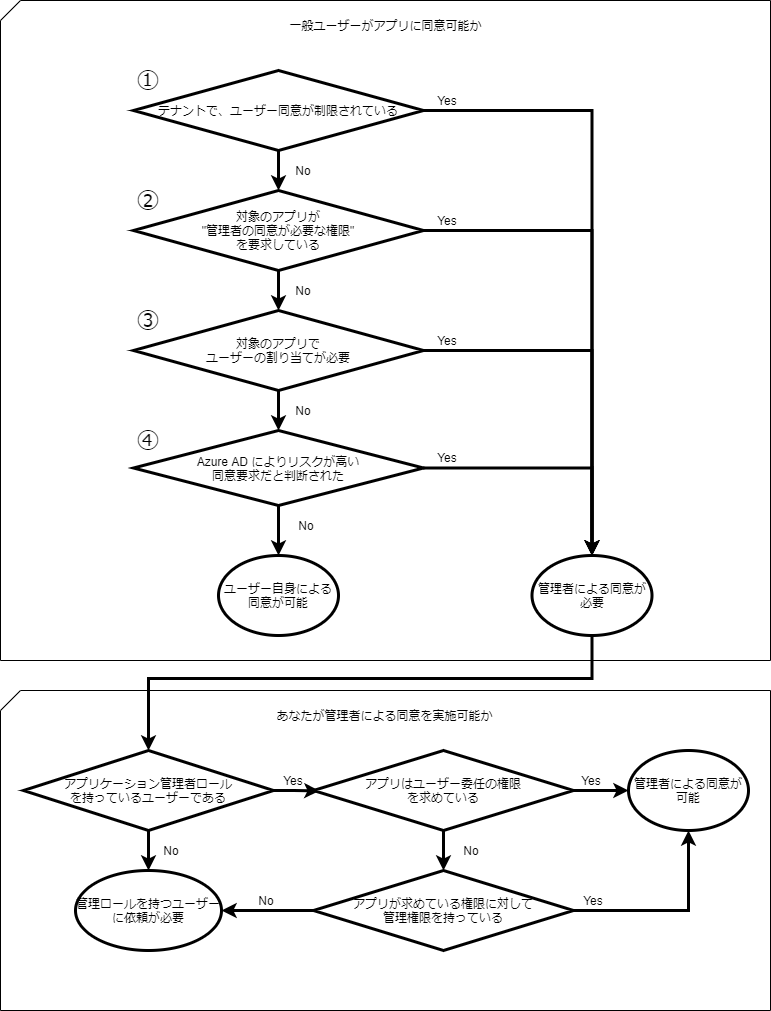
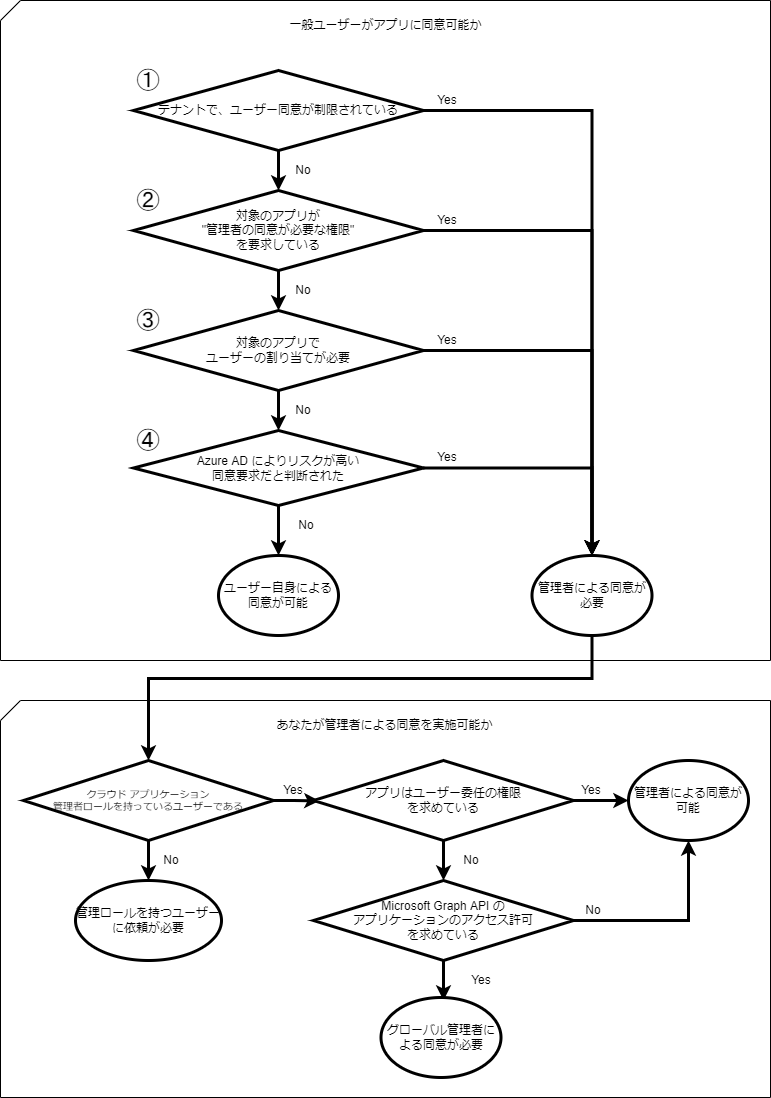
fix flow

diff --git a/articles/azure-active-directory/azure-ad-consent-framework.md b/articles/azure-active-directory/azure-ad-consent-framework.md
@@ -209,9 +209,7 @@ Microsoft のサービスを始め、クラウド サービスが普及した現
 
 ### 必要な権限
 
-まず、アプリケーションに同意を行えるユーザーは、最低限アプリケーション管理者、あるいは、クラウド アプリケーション管理者のディレクトリ ロールが必要です。加えて、アプリケーション権限を要求するアプリに同意を行うには、求められている権限に対する管理ロールが必要です。たとえば、アプリケーション権限でメールの読み書き権限を求めるアプリに対しては、Exchange 管理者ロールが必要です。
-
-また、Microsoft Graph API のアプリケーション権限に対し管理者の同意を与えるには、グローバル管理者ロールが必要です。
+まず、アプリケーションに同意を行えるユーザーは、アプリケーション管理者、あるいは、クラウド アプリケーション管理者のディレクトリ ロールが必要です。また、Microsoft Graph API のアプリケーション権限に対し管理者の同意を与えるには、グローバル管理者ロールが必要です。
 
 ### パターン 1. アプリケーションに管理ユーザーでアクセスを行い、組織の代理として同意するにチェックをいれて同意を付与する
 
